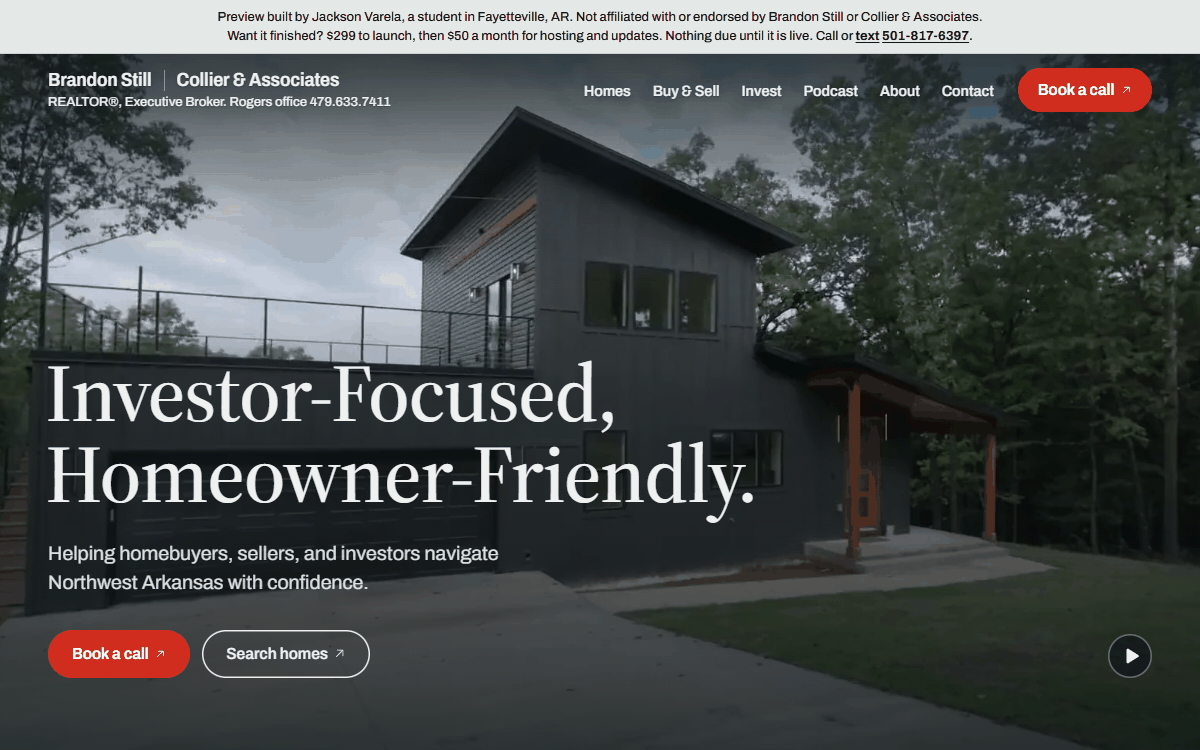
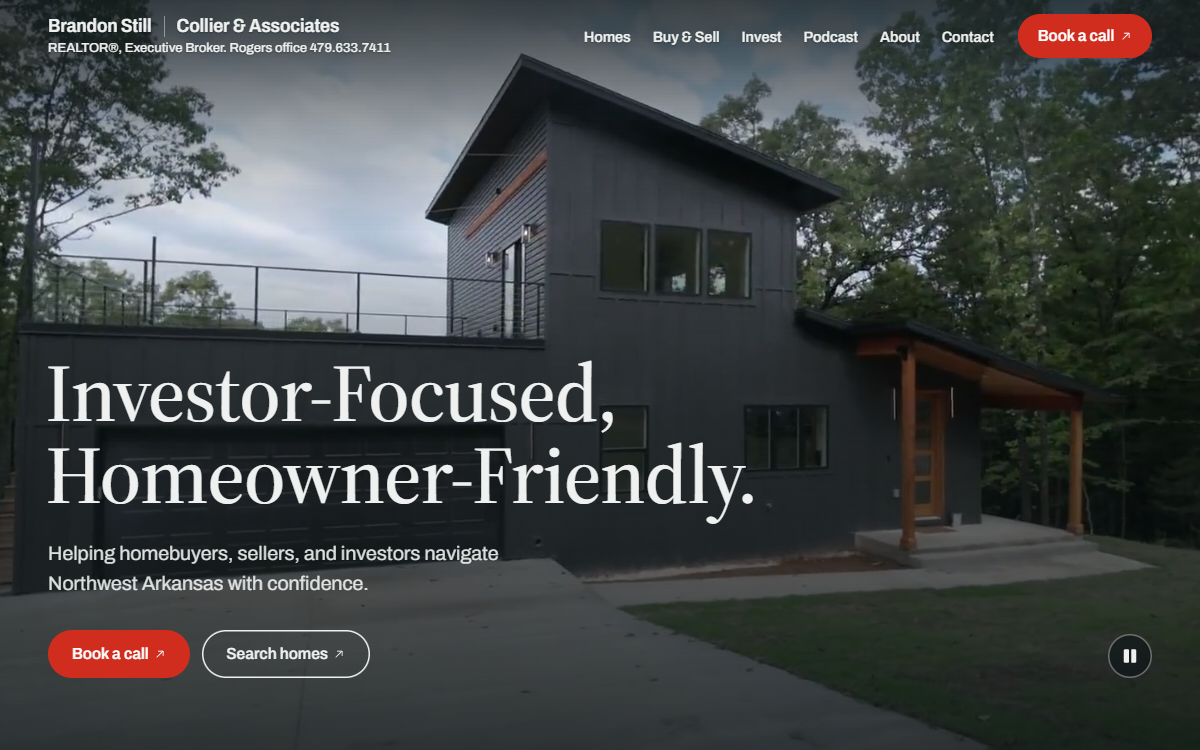
Brandon Still preview: remove the sales bar, add a quiet footer note
Jackson works with Brandon directly, so the page carries no pricing or pitch. The gray preview
bar is gone (kept as an empty hidden element so the layout code stays the same) and the footer
says it is a preview made for him, not yet reviewed or approved. preview.png re-shot.

diff --git a/brandon-still-realtor/index.html b/brandon-still-realtor/index.html
@@ -51,7 +51,7 @@ setTimeout(chk,4000);})();
   --sans:"Archivo","Arial Narrow",Arial,sans-serif;
   --gut:clamp(16px,4vw,48px);--gap:clamp(16px,2vw,28px);
   --sp-xl:clamp(96px,11vw,160px);--sp-l:clamp(80px,9vw,128px);--sp-m:clamp(64px,7vw,96px);
-  --bar:40px;--hdr:64px;--pipw:clamp(132px,13vw,200px);
+  --bar:0px;--hdr:64px;--pipw:clamp(132px,13vw,200px);
   color-scheme:light;
 }
 @media (max-width:767px){:root{--hdr:56px}}
@@ -700,6 +700,7 @@ html.js .nojs{display:none}
 .f-privacy[open] summary::after{content:"\2212"}
 .f-privacy p{font-size:.8125rem;line-height:1.5}
 .f-privacy p+p{margin-top:8px}
+.f-note{grid-column:1/-1;margin:0;font-size:.75rem;line-height:1.5;color:var(--on-deep);opacity:.55}
 .f-bottom{grid-column:1/-1;display:flex;flex-wrap:wrap;align-items:center;gap:16px 32px;padding-top:24px;box-shadow:inset 0 1px 0 rgba(238,241,239,.12);font-size:.875rem}
 .f-lock{color:var(--on-deep);font-weight:650;font-stretch:95%;font-size:1rem;display:flex;align-items:center;gap:10px;margin-right:auto}
 .f-lock i{width:1px;height:1em;background:currentColor;opacity:.45}
@@ -865,7 +866,7 @@ html.lenis,html.lenis body{height:auto}
   <symbol id="i-x" viewBox="0 0 256 256"><path fill="currentColor" d="M205.66,194.34a8,8,0,0,1-11.32,11.32L128,139.31,61.66,205.66a8,8,0,0,1-11.32-11.32L116.69,128,50.34,61.66A8,8,0,0,1,61.66,50.34L128,116.690l66.34-66.35a8,8,0,0,1,11.32,11.32L139.31,128Z"/></symbol>
 </svg>
 
-<div id="preview-bar">Preview built by Jackson Varela, a student in Fayetteville, AR. Not affiliated with or endorsed by Brandon Still or Collier&nbsp;&amp;&nbsp;Associates. <br class="bar-br">Want it finished? $299 to launch, then $50 a month for hosting and updates. Nothing due until it is live. Call or <a href="sms:+15018176397">text</a> <a href="tel:+15018176397">501-817-6397</a>.</div>
+<div id="preview-bar" hidden></div>
 <script>/* the bar's real height before first paint, so the sticky header never drops into place */document.documentElement.style.setProperty('--bar',document.getElementById('preview-bar').offsetHeight+'px')</script>
 <a class="skip" href="#top">Skip to content</a>
 
@@ -1656,6 +1657,7 @@ html.lenis,html.lenis body{height:auto}
       </nav>
       <p class="eho"><img src="brand/eho.svg" width="28" height="28" alt="" loading="lazy" decoding="async">Equal Housing Opportunity</p>
     </div>
+    <p class="f-note">Preview made for Brandon Still by Jackson Varela. Not yet reviewed or approved by Brandon Still or Collier&nbsp;&amp;&nbsp;Associates.</p>
   </div>
 </footer>
 <div class="act-bar" id="act-bar" role="group" aria-label="Contact Brandon" hidden>
